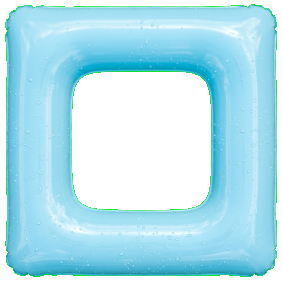
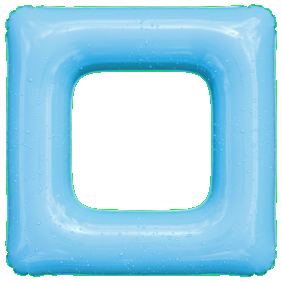
Update website styles and assets

diff --git a/index-en.html b/index-en.html
@@ -54,14 +54,16 @@
                     <div class="stream-wave stream-blue"></div>
                     <div class="stream-wave stream-pink"></div>
                 </div>
+                <h2 class="handwritten gentle-hover-text" style="font-size: clamp(1.8rem, 6vw, 2.8rem); color: #e91e63; text-align: center; line-height: 1.2; padding-top: 30px; margin-bottom: 0px; width: 100%;">Nice to meet you,<br><span style="white-space: nowrap; font-size: clamp(1.5rem, 6.5vw, 2.8rem);">I am Chava Rivka Landau</span></h2>
                 <div class="provider-split">
                     <div class="provider-info">
-                        <h2 class="handwritten gentle-hover-text" style="font-size: clamp(1.8rem, 6vw, 2.8rem); color: #e91e63; text-align: center; line-height: 1.2; margin-bottom: 20px;">Nice to meet you,<br><span style="white-space: nowrap; font-size: clamp(1.5rem, 6.5vw, 2.8rem);">I am Chava Rivka Landau.</span></h2>
-                        <p class="title">A mother and grandmother, certified hydrotherapist, and expert in prenatal water therapy.</p>
-                        <div class="accent-line align-right"></div>
-                        <p class="bio-short animated-reading-box">
-                            My goal is simple: to grant you half an hour of weightlessness, absolute quiet, and physical and mental preparation for childbirth. For me, water is the most powerful tool to relieve pressure from the back and pelvis, release pre-birth anxieties, and teach you how to truly breathe and let go. I have created a safe, embracing space for you – come disconnect from everything, trust your body, and arrive at the delivery room with calmness and empowerment.
+                        <p class="title" style="font-size: clamp(0.7rem, 2.8vw, 1.1rem); line-height: 1.25; text-align: center; width: 100%; display: block; box-sizing: border-box; margin: 0 auto;">
+                            A mother and grandmother,<br>
+                            certified hydrotherapist,<br>
+                            and expert in prenatal water therapy.
                         </p>
+                        <div class="accent-line align-right"></div>
+                        <p class="bio-short animated-reading-box" style="width: 100%; text-align: justify; display: block; box-sizing: border-box;">My goal is simple: to grant you half an hour of weightlessness, absolute quiet, and physical and mental preparation for childbirth. For me, water is the most powerful tool to relieve pressure from the back and pelvis, release pre-birth anxieties, and teach you how to truly breathe and let go. I have created a safe, embracing space for you – come disconnect from everything, trust your body, and arrive at the delivery room with calmness and empowerment.</p>
                     </div>
                     <div class="provider-image interactive-provider">
                         <img src="embracing_hands_heart.png" alt="Embracing hands and heart" class="provider-main-img" />
@@ -248,7 +250,7 @@
         <div class="copyright">
             <p class="disclaimer" style="font-size: 0.9rem; opacity: 0.7; margin-bottom: 10px;">* The images of the pools on this site are for illustration purposes only.</p>
             <p>&copy; 2026 Chava Rivka Landau - Prenatal Spa and Hydrotherapy.</p>
-            <p style="font-size: 0.8rem; opacity: 0.8; margin-top: 25px;">Edited by <strong>Weather Landing Pages 0556799588</strong></p>
+            <p style="font-size: 0.8rem; opacity: 0.8; margin-top: 25px;">Edited by <strong>Weather Landing Pages and Automation 0556799588</strong></p>
         </div>
     </footer>
 
@@ -265,10 +267,6 @@
                 <div class="form-group">
                     <label for="reg-phone">Phone</label>
                     <input type="tel" id="reg-phone" name="phone" autocomplete="tel" required>
-                </div>
-                <div class="form-group">
-                    <label for="reg-address">Residential Address</label>
-                    <input type="text" id="reg-address" name="address" autocomplete="street-address">
                 </div>
                 <div class="form-group">
                     <label for="reg-details">Request Details</label>

diff --git a/styles.css b/styles.css
@@ -756,7 +756,7 @@ h2.interactive-hero-line:hover {
 /* --- Provider Section --- */
 .provider {
     position: relative;
-    padding: 220px 0 100px 0; /* Lowered the square to reveal the plant in the hero banner! */
+    padding: 270px 0 100px 0; /* Lowered the square further down to match the user's request */
 }
 
 .provider::before {
@@ -776,19 +776,19 @@ h2.interactive-hero-line:hover {
 }
 
 .provider-content {
-    background: rgba(255, 255, 255, 0.6);
-    border-radius: 50px;
-    box-shadow: 0 15px 35px rgba(0, 0, 0, 0.1);
-    max-width: 1000px;
+    background: rgba(255, 249, 235, 0.55); /* Yellowish pearl white tint (לבן פנינה צהבהב) */
+    border-radius: 40px; /* Slightly smaller radius to match the reduced size */
+    box-shadow: 0 10px 30px rgba(0, 0, 0, 0.06);
+    max-width: 850px; /* Shrunk width */
     margin: 0 auto;
     position: relative;
     overflow: hidden;
-    backdrop-filter: blur(25px);
-    -webkit-backdrop-filter: blur(25px);
-    border: 1px solid rgba(255, 255, 255, 0.4);
-    border-top: 1px solid rgba(255, 255, 255, 0.8);
-    border-right: 1px solid rgba(255, 255, 255, 0.8);
-    padding: 80px;
+    backdrop-filter: blur(8px); /* Slight bump to blur to give it a solid glass feel without making it murky */
+    -webkit-backdrop-filter: blur(8px);
+    border: 1px solid rgba(255, 255, 255, 0.6);
+    border-top: 1px solid rgba(255, 255, 255, 0.95);
+    border-right: 1px solid rgba(255, 255, 255, 0.95);
+    padding: 15px 40px; /* Further shrunk padding to make the glass significantly smaller and less tall */
 }
 
 .provider-split {
@@ -842,13 +842,14 @@ h2.interactive-hero-line:hover {
     font-size: 1.4rem;
     color: var(--luxury-gold);
     font-weight: 700;
-    margin-top: 20px;
-    margin-bottom: 25px;
+    margin-top: 5px; /* Reduced to pull text closer to the main title above */
+    margin-bottom: 20px; /* Reduced bottom margin too */
     background: transparent;
     padding: 15px 25px;
     border-radius: 12px;
     display: inline-block;
     box-shadow: 0 0 0 rgba(0,0,0,0);
+
     border: 2px solid var(--luxury-gold);
     transition: all 0.5s cubic-bezier(0.25, 1, 0.5, 1);
     cursor: default;
@@ -876,8 +877,9 @@ h2.interactive-hero-line:hover {
 }
 
 .bio-short {
-    font-size: 1.15rem;
-    color: var(--text-light);
+    font-size: 1.05rem;
+    color: var(--text-dark);
+    font-weight: 700;
     line-height: 1.8;
 }
 
@@ -1423,7 +1425,7 @@ html[lang="en"] .drop-card p {
     top: auto;
     left: 0;
     width: 100%;
-    height: 100px;
+    height: 250px;
     pointer-events: none;
     overflow: hidden;
     z-index: 0;
@@ -1643,7 +1645,7 @@ html[lang="en"] .drop-card p {
 }
 
 .animated-reading-box:hover {
-    background-color: #fcfcfc;
+    background-color: rgba(255, 182, 162, 0.2); /* Gentle Peach-Pink */
     border: 2px solid #1a365d; /* Luxury Blue border */
     border-radius: 12px; /* Rounded box as requested */
     padding: 1rem;

diff --git a/index.html b/index.html
@@ -54,9 +54,9 @@
                     <div class="stream-wave stream-blue"></div>
                     <div class="stream-wave stream-pink"></div>
                 </div>
+                <h2 class="handwritten gentle-hover-text" style="font-size: 2.8rem; color: #e91e63; text-align: center; line-height: 1.2; padding-top: 0px; margin-bottom: 0px; width: 100%;">נעים להכיר,<br>חוה רבקה לאנדא</h2>
                 <div class="provider-split">
                     <div class="provider-info">
-                        <h2 class="handwritten gentle-hover-text" style="font-size: 2.8rem; color: #e91e63; text-align: center; line-height: 1.2; margin-bottom: 20px;">נעים להכיר,<br>חוה רבקה לאנדא.</h2>
                         <p class="title">אמא וסבתא, הידרותרפיסטית מוסמכת ומומחית לטיפולי מים להריון.</p>
                         <div class="accent-line align-right"></div>
                         <p class="bio-short animated-reading-box">
@@ -250,7 +250,7 @@
         <div class="copyright">
             <p class="disclaimer" style="font-size: 0.9rem; opacity: 0.7; margin-bottom: 10px;">* תמונות הבריכות המופיעות באתר הינן להמחשה בלבד.</p>
             <p>&copy; 2026 חוה רבקה לאנדא - ספא והידרותרפיה לנשים בהריון.</p>
-            <p style="font-size: 0.8rem; opacity: 0.8; margin-top: 25px;">נערך על ידי <strong>Weather דפי נחיתה 0556799588</strong></p>
+            <p style="font-size: 0.8rem; opacity: 0.8; margin-top: 25px;">נערך על ידי <strong>Weather דפי נחיתה ואוטומציה 0556799588</strong></p>
         </div>
     </footer>
 
@@ -267,10 +267,6 @@
                 <div class="form-group">
                     <label for="reg-phone">טלפון</label>
                     <input type="tel" id="reg-phone" name="phone" autocomplete="tel" required>
-                </div>
-                <div class="form-group">
-                    <label for="reg-address">כתובת מגורים</label>
-                    <input type="text" id="reg-address" name="address" autocomplete="street-address">
                 </div>
                 <div class="form-group">
                     <label for="reg-details">פירוט הבקשה</label>
